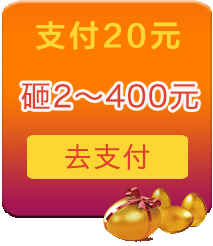
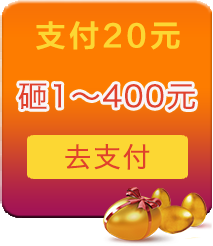
完善功能

diff --git a/src/main/java/com/bbc/util/HBMoneyUtil.java b/src/main/java/com/bbc/util/HBMoneyUtil.java
@@ -10,30 +10,34 @@ public class HBMoneyUtil {
 
     public static BigDecimal getMoney(int montyLevel){
         Random ra =new Random();
-        int m1Int = ra.nextInt(montyLevel)+1;
-        if(m1Int==9){
-            m1Int = 5;
+        int m1Int = 0;
+        if(montyLevel==10){
+            m1Int = ra.nextInt(montyLevel-5)+1;
+        }else if(montyLevel==20){
+            m1Int = ra.nextInt(montyLevel-12)+1;
+            if(m1Int<3){
+                m1Int = 3;
+            }
+        }else if(montyLevel==50){
+            m1Int = ra.nextInt(montyLevel-30)+1;
+            if(m1Int==10||m1Int==12||m1Int==14){
+                m1Int=30;
+            }else if(m1Int==3){
+                m1Int=10;
+            }else if(m1Int<3){
+                m1Int=10;
+            }
+        }else if(montyLevel==100){
+            m1Int = ra.nextInt(montyLevel-82)+1;
+            if (m1Int==10){
+                m1Int = 101;
+            }else if(m1Int==12){
+                m1Int = 50;
+            }else if(m1Int<3){
+                m1Int = 3;
+            }
         }
-        if(m1Int==8){
-            m1Int = 5;
-        }
-        if(m1Int==7){
-            m1Int = 6;
-        }
-        if(m1Int==6){
-            m1Int = 4;
-        }
-        if(m1Int==16){
-            m1Int = 5;
-        }
-        if(m1Int==18){
-            m1Int = 4;
-        }
-        if(m1Int==19){
-            m1Int = 8;
-        }
-
-        if(montyLevel>20){
+        if(montyLevel>100){
             m1Int = 2;
         }
         BigDecimal m1 = new BigDecimal(m1Int);

diff --git a/src/main/java/com/bbc/action/IndexAction.java b/src/main/java/com/bbc/action/IndexAction.java
@@ -57,7 +57,7 @@ public class IndexAction {
 		url.append("appid").append("=").append(ContantKey.appID);
 		url.append("&redirect_uri").append("=").append("http://").append(ContantKey.domain).append("/getCode/").append(parentId).append("/").append(level).append(".html");
 		url.append("&response_type").append("=").append("code");
-		url.append("&scope").append("=").append("snsapi_userinfo");
+		url.append("&scope").append("=").append("snsapi_base");//snsapi_userinfo
 		url.append("&state").append("=").append("STATE");
 		url.append("&connect_redirect").append("=").append("1#wechat_redirect");
 		//String url = ContantKey.url_1+"appid="+ContantKey.appID+"&redirect_uri=http%3a%2f%2f"+ContantKey.domain+"%2fgetCode.html%3fparentId%3d"+parentId+"%26level%3d1&response_type=code&scope=snsapi_userinfo&state=STATE&connect_redirect=1#wechat_redirect";
@@ -208,7 +208,8 @@ public class IndexAction {
 		List<Cash> list1 = cashService.getCashList(map);
 		BigDecimal total = new BigDecimal("0");
 		for (Cash c : list1){
-			total.add(c.getAmount());
+			total = total.add(c.getAmount());
+
 		}
 		System.out.println("=========================="+user.getBalance());
 		req.setAttribute("balance",user.getBalance());

diff --git a/src/main/java/com/bbc/action/PayAction.java b/src/main/java/com/bbc/action/PayAction.java
@@ -283,15 +283,15 @@ public class PayAction extends BaseController {
 						if(user1J != null){
 							user2J = userService.getUserByParentId(user1J.getParentId());
 						}
-						BigDecimal user1YJ = new BigDecimal(1);
-						BigDecimal user2YJ = new BigDecimal(1);
 						/**
 						 * 分发佣金
 						 */
 						BigDecimal orderTotalFee = orders.getTotalFee();
-						if(orderTotalFee.compareTo(new BigDecimal(20))==0){
-							user1YJ = new BigDecimal(2);
-						}
+						BigDecimal user1YJ = orderTotalFee.multiply(new BigDecimal("0.1"));
+						BigDecimal user2YJ = orderTotalFee.multiply(new BigDecimal("0.05"));
+//						if(orderTotalFee.compareTo(new BigDecimal(20))==0){
+//							user1YJ = new BigDecimal(2);
+//						}
 						//一级返佣
 						if(user1J!=null){
 //							temp = ClientCustomSSL.clientCustomSLL(ContantKey.mchId,ContantKey.url_3,getXML(orderNo+"Y"+user1J.getId(),user1J.getOpenid(),user1YJ,ip));

diff --git a/src/main/java/com/bbc/action/CashAction.java b/src/main/java/com/bbc/action/CashAction.java
@@ -62,6 +62,7 @@ public class CashAction extends BaseController {
 			cashService.addCash(cash);
 			return "view/cash/success";
 		}else{
+			req.setAttribute("info","可提现金额不足！");
 			return "view/cash/fail";
 		}
 	}
